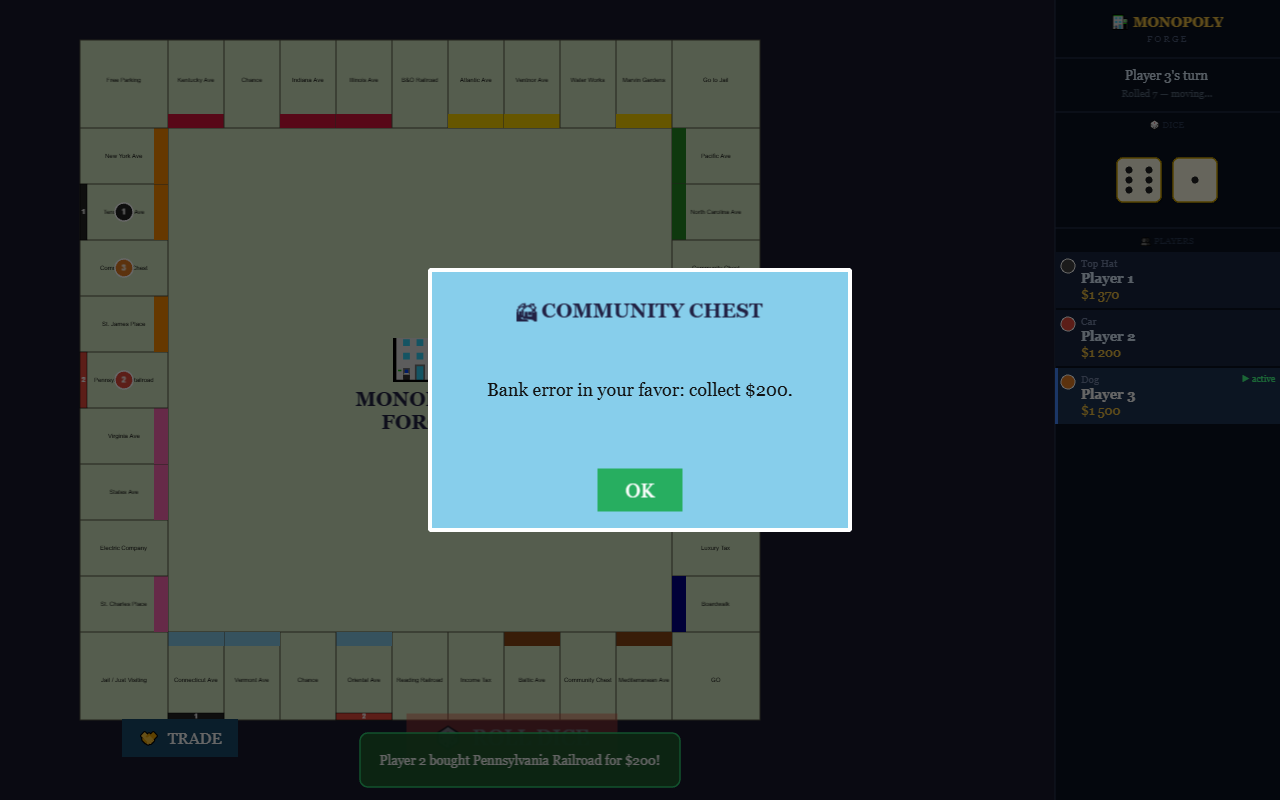
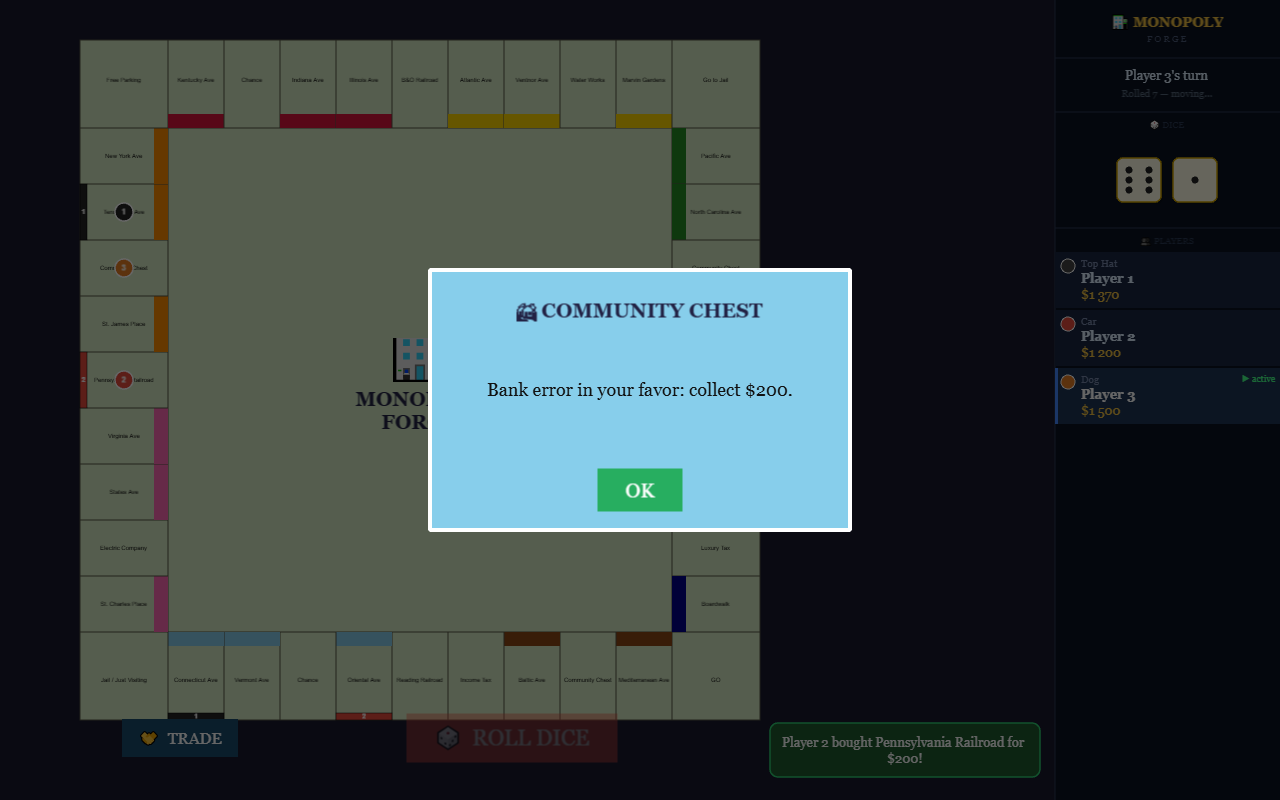
fix: adjust HUD layout and notification stacking to prevent overlap with controls

Changed region(s): [[0.5938, 0.875, 0.8125, 1.0], [0.2812, 0.9062, 0.5312, 1.0]]

diff --git a/src/ui/Notification.ts b/src/ui/Notification.ts
@@ -16,10 +16,17 @@ const BORDER_COLORS: Record<NotifType, number> = {
   danger:  0xe74c3c,
 };
 
-const TOAST_W = 320;
+// Toasts live in the column between the board (which ends at x=760) and the HUD
+// (which starts at x=1055), aligned with the property panel above them. They used
+// to be centred under the board at y=760, directly on top of the ROLL DICE button
+// at y=738 — every notification covered the control you were about to press.
+//
+// The property panel occupies the top of this column down to y=480, so the stack
+// has room for five toasts before it would reach it; they expire long before that.
+const TOAST_W = 270;
 const TOAST_H = 54;
-const TOAST_X = 520;   // center of board area
-const TOAST_BASE_Y = 760;
+const TOAST_X = 905;   // centre of the 770–1045 column
+const TOAST_BASE_Y = 750;
 
 interface Toast {
   container: Phaser.GameObjects.Container;

diff --git a/ROADMAP.md b/ROADMAP.md
@@ -112,14 +112,17 @@ Not done, and moved to M6: auctioning houses when the bank runs short of them.
       matches the limited-supply rule; what is missing is the other half, where
       several players want the last few houses and the standard rules auction
       them. M5's `Auction` is the machinery, but it bids on a tile, not on stock.
-- [ ] **Fill the rest of the right-hand column.** The property panel now occupies
-      x=770–1045 down to y=480; the turn log belongs underneath it.
-- [ ] **Stop toasts covering the roll button.** Notifications stack upward from
-      y=760, directly over the ROLL DICE button at y=738.
-- [ ] **Update the property panel instead of rebuilding it.** `PropertyPanel.show`
-      destroys and re-creates every text object, and `refreshPanel()` calls it
-      after each build, sale, mortgage and turn change. Not measurable at this
-      size, but it is churn where a diff would do.
+- [ ] **Fill the rest of the right-hand column.** The property panel holds
+      y=40–480 of it and the toast stack rises from y=750; a turn log belongs in
+      the gap between them, and would want the toasts to become its newest entries
+      rather than a second, parallel notification system.
+- [x] **Stop toasts covering the roll button.** Notifications moved out of the
+      board's centre line and into the right-hand column (x=770–1040, stacking up
+      from y=750), aligned under the property panel and clear of every button.
+- [ ] **Update the panels instead of rebuilding them.** `PropertyPanel.show`,
+      `AuctionPanel.show` and `TradePanel.show` each destroy and re-create every
+      child, on every build, sale, mortgage, bid and offer edit. Not measurable at
+      this size, but it is churn where a diff would do.
 - [ ] Sound effects, and a proper token sprite instead of a coloured circle.
 
 ## M7 — Quality

diff --git a/README.md b/README.md
@@ -74,7 +74,7 @@ is unit-tested in bare Node with no jsdom and no canvas shim.
 - **Auctions** — a declined property goes under the hammer: round-robin bidding, a pass forfeits, and a per-bidder clock passes for anyone who lets it run out
 - **Trading** — deeds, cash and jail cards in one offer, with propose / accept / decline / counter, netted cash, and buildings blocking the lots they stand on
 - **Bankruptcy that settles** — a debt is met from cash, then by selling buildings and mortgaging deeds, and only then does the player go under, handing their whole estate to the creditor. The last solvent player wins
-- **HUD** — animated dice, per-player cash, active-player highlight, jail markers, stacking toast notifications
+- **HUD** — animated dice, per-player cash, active-player highlight, jail markers, and toast notifications stacking in the column beside the board, clear of the controls
 - **Determinism** — `?seed=12345` replays an identical game
 
 ### Not implemented yet
